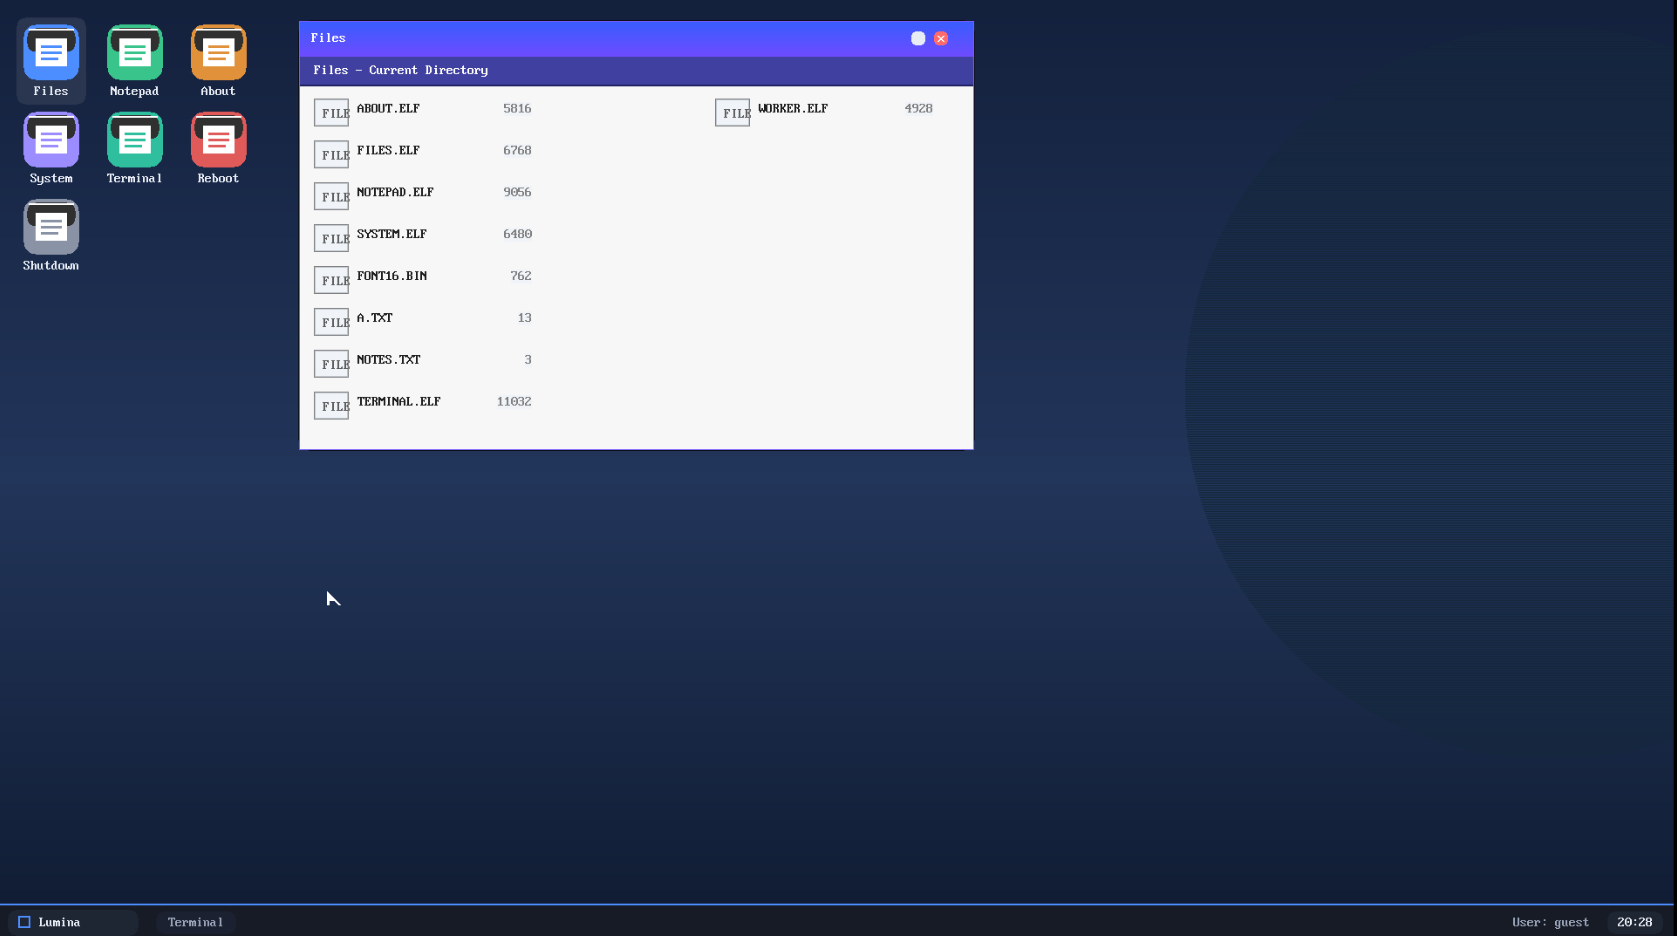
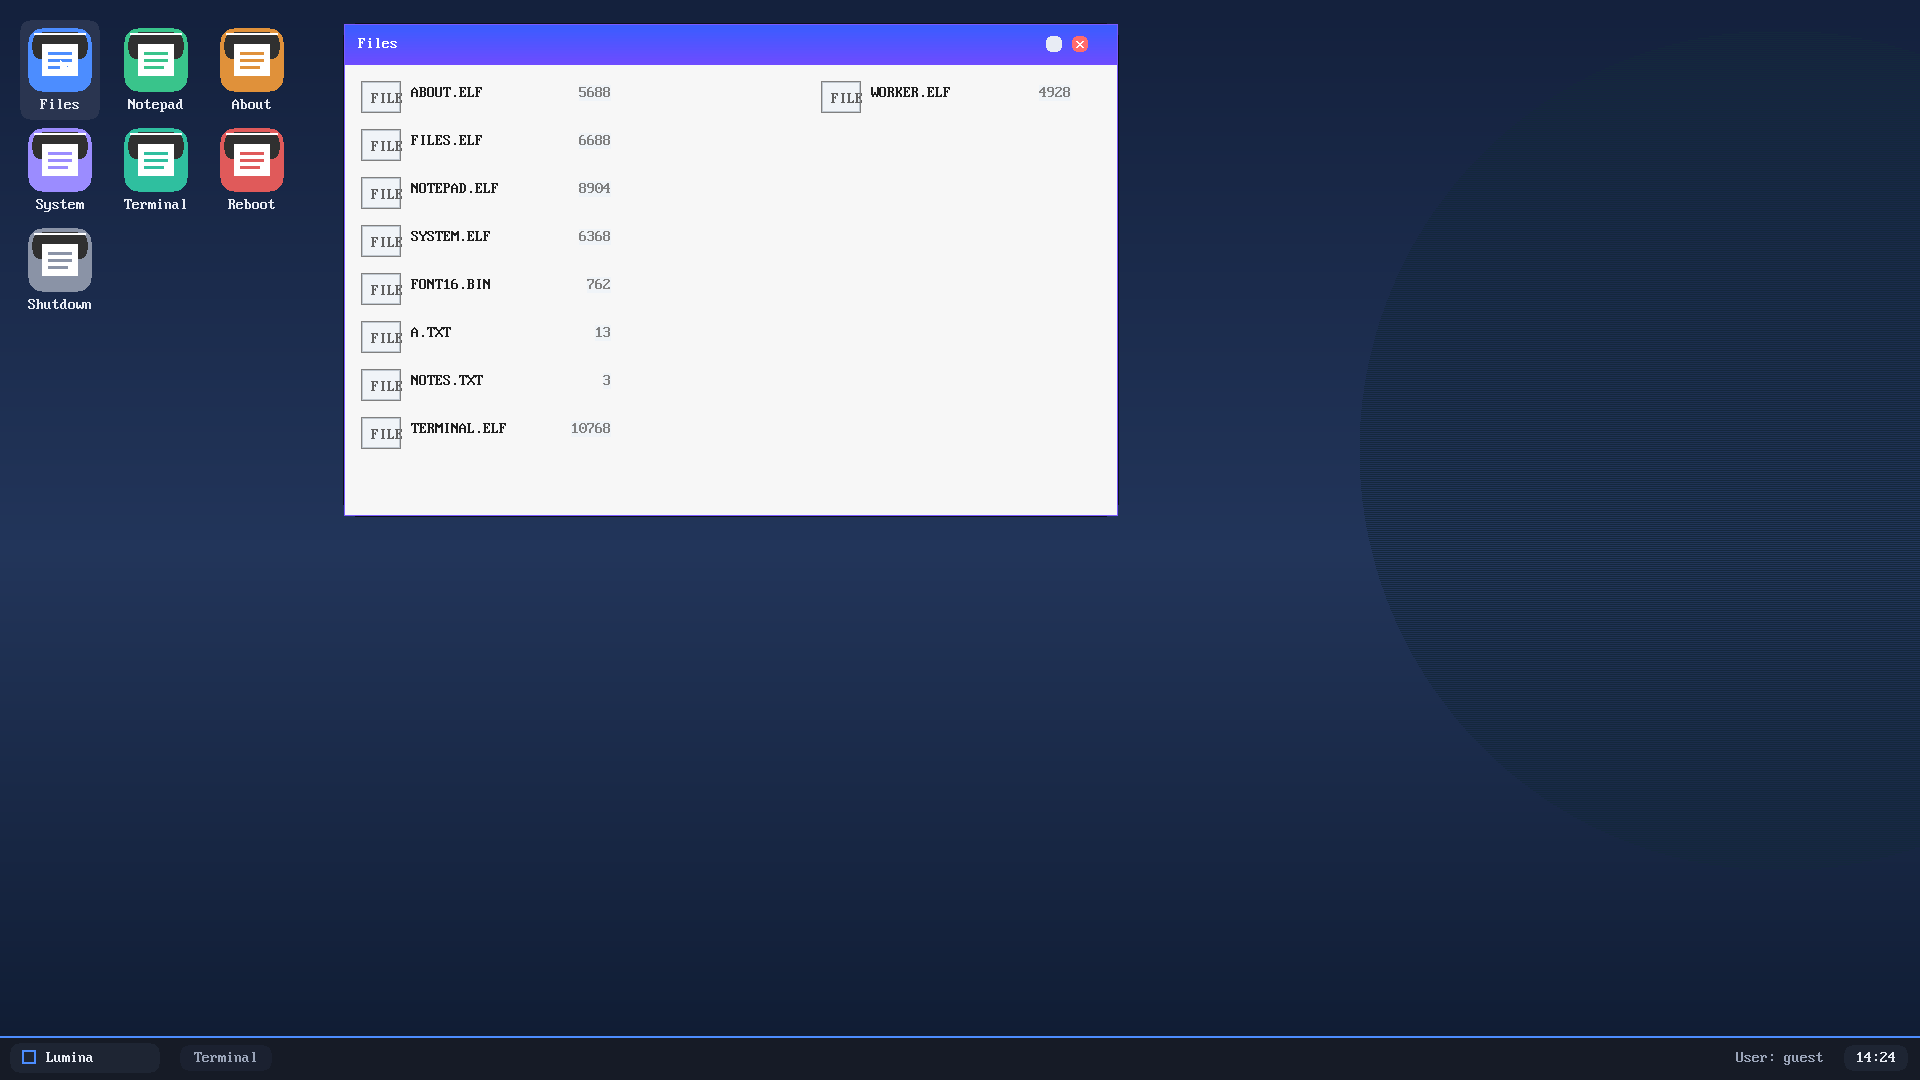
change:refresh screenshots and pages docs

Changed region(s): [[0.0, 0.031, 0.5891, 0.4957], [0.0, 0.0, 1.0, 1.0]]

diff --git a/docs/index.html b/docs/index.html
@@ -65,6 +65,7 @@
         .screenshot img {
             width: 100%; border-radius: 12px; border: 1px solid #e5e5e5;
         }
+        .screenshot.wide { grid-column: 1 / -1; }
         .screenshot p { margin-top: 0.75rem; font-size: 0.9rem; color: #666; font-weight: 500; }
         .install-steps {
             background: #fff; border: 1px solid #e5e5e5; border-radius: 8px;
@@ -112,7 +113,11 @@
             </div>
             <div class="feature">
                 <h3 data-en="Desktop Environment" data-zh="桌面环境">Desktop Environment</h3>
-                <p data-en="UEFI GOP graphics (1920x1080) with up to four windows tiled 2x2, click-to-focus, and damage-based repainting." data-zh="UEFI GOP 图形（1920x1080），最多四个窗口 2x2 平铺、点击切换焦点、按区域增量重绘。">UEFI GOP graphics (1920x1080) with up to four windows tiled 2x2, click-to-focus, and damage-based repainting.</p>
+                <p data-en="UEFI GOP graphics (1920x1080) with up to four windows tiled 2x2, per-window buffers, click-to-focus, title-bar dragging, minimize/restore, and damage-based repainting." data-zh="UEFI GOP 图形（1920x1080），最多四个窗口 2x2 平铺，每窗口独立缓冲、点击聚焦、标题栏拖动、最小化/恢复与增量重绘。">UEFI GOP graphics (1920x1080) with up to four windows tiled 2x2, per-window buffers, click-to-focus, title-bar dragging, minimize/restore, and damage-based repainting.</p>
+            </div>
+            <div class="feature">
+                <h3 data-en="Responsive Input" data-zh="流畅输入">Responsive Input</h3>
+                <p data-en="One PS/2 handler drains keyboard and mouse bytes, 200 Hz sampling with correct negative deltas, so the cursor stays smooth in every direction." data-zh="键盘与鼠标字节统一由 PS/2 处理，200Hz 采样、负向位移准确，光标各方向都顺滑。">One PS/2 handler drains keyboard and mouse bytes, 200 Hz sampling with correct negative deltas, so the cursor stays smooth in every direction.</p>
             </div>
             <div class="feature">
                 <h3 data-en="Preemptive Scheduler" data-zh="抢占式调度">Preemptive Scheduler</h3>
@@ -136,13 +141,25 @@
     <div class="section" id="screenshots">
         <h2 data-en="Screenshots" data-zh="截图">Screenshots</h2>
         <div class="screenshots">
-            <div class="screenshot">
-                <img src="cmd.png" alt="Notepad">
-                <p data-en="Notepad" data-zh="记事本">Notepad</p>
+            <div class="screenshot wide">
+                <img src="desktop.png" alt="LuminaOS desktop with Notepad, System, About and Terminal">
+                <p data-en="Desktop — four windows tiled, taskbar, drag, minimize and restore" data-zh="桌面 —— 四窗口平铺、任务栏、拖动、最小化与恢复">Desktop — four windows tiled, taskbar, drag, minimize and restore</p>
             </div>
             <div class="screenshot">
-                <img src="ui.png" alt="Desktop">
-                <p data-en="Desktop" data-zh="桌面">Desktop</p>
+                <img src="files.png" alt="Files">
+                <p data-en="Files — FAT16 browser" data-zh="文件管理 —— FAT16 浏览">Files — FAT16 browser</p>
+            </div>
+            <div class="screenshot">
+                <img src="notepad.png" alt="Notepad">
+                <p data-en="Notepad — text editing" data-zh="记事本 —— 文本编辑">Notepad — text editing</p>
+            </div>
+            <div class="screenshot">
+                <img src="shell.png" alt="Terminal">
+                <p data-en="Terminal — help output" data-zh="终端 —— help 输出">Terminal — help output</p>
+            </div>
+            <div class="screenshot">
+                <img src="system.png" alt="System">
+                <p data-en="System — memory and heap" data-zh="系统 —— 内存与堆">System — memory and heap</p>
             </div>
         </div>
     </div>

diff --git a/README.md b/README.md
@@ -20,7 +20,8 @@ written for the project itself.
 
 - Physical memory manager (bitmap) and 4-level paging with per-process page tables
 - GDT, IDT, exception handlers, PIC remapping, PIT and RTC drivers
-- PS/2 keyboard and mouse drivers
+- PS/2 keyboard and mouse drivers sharing one controller drain, so no scancode or
+  packet is ever stranded in the 8042 output buffer
 - ATA PIO driver with a read/write FAT16 filesystem
 - Kernel shell with file, memory, and process commands
 - Preemptive scheduler with time slicing, sleeping, yielding, and suspend/resume
@@ -32,9 +33,13 @@ written for the project itself.
 - Lumina Desktop on the UEFI GOP framebuffer (1920x1080 on the default OVMF setup)
 - Up to **4 windows tiled in a 2x2 grid**, click to focus, focused window is
   highlighted and receives all keyboard input
+- Every window owns its own surface buffer, so dragging or restoring one window
+  never corrupts another
+- Drag windows by the title bar; minimize keeps the tile, position, and contents
 - Incremental damage-based repainting: only the affected rectangle is redrawn and
   copied to the framebuffer, so an idle desktop costs no CPU
-- Single hardware cursor drawn on top of the framebuffer with no trails
+- Single hardware cursor drawn on top of the framebuffer with no trails, updated
+  from a 200 Hz PS/2 mouse stream with correct negative deltas
 - Taskbar with start pill, terminal launcher, live clock, and minimized windows
 - Window chrome with minimize (suspend/resume) and close buttons
 
@@ -103,9 +108,20 @@ Debug output goes to `build64/uefi-debug.log` (kernel `debugcon`) and
 - Click a desktop icon to launch an application; each new app takes the next free
   tile
 - Click any window to give it focus; only the focused window gets keyboard input
+- Drag a window by its title bar to move it around the desktop
 - The minimize button suspends the process and leaves a taskbar pill; click the
-  pill to resume it in a free tile
+  pill to resume it in its original tile with its contents intact
 - The close button (or `Esc`) exits the process and frees its tile
+
+## Screenshots
+
+| Desktop | Files |
+| --- | --- |
+| ![Desktop with four tiled windows](docs/desktop.png) | ![Files](docs/files.png) |
+
+| Notepad | Terminal |
+| --- | --- |
+| ![Notepad](docs/notepad.png) | ![Terminal](docs/shell.png) |
 
 ## Known issues (0.7.5)
 
